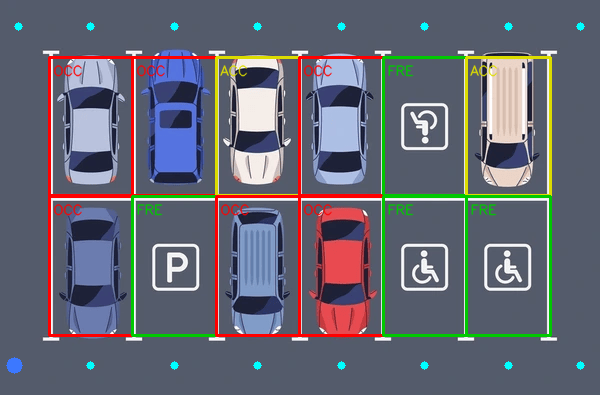
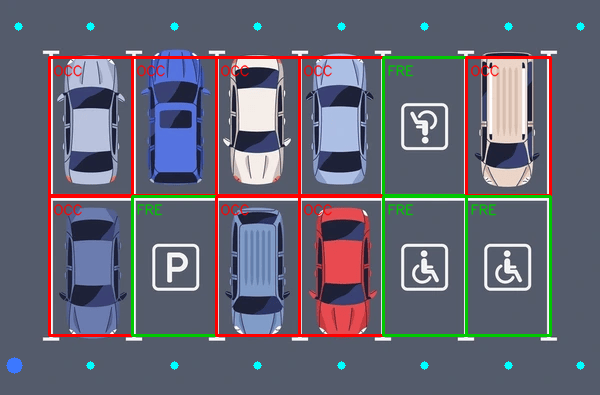
Updated Interative Map - Blue circle (the car) is now moveable - Orange Path (the closest free parking spot) is dynamic - Green Path (the chosen free parking spot) is dynamic

Changed region(s): [[0.75, 0.1215, 0.93, 0.4861], [0.36, 0.1215, 0.51, 0.5165]]

diff --git a/web/app.js b/web/app.js
@@ -7,6 +7,7 @@ const routeInfo = document.getElementById("routeInfo");
 let lotData = null;
 let bgImage = null;
 let selectedSpotNodeId = null;
+let vehicleAnchorId = null;
 let routePath = [];
 let defaultRoutePath = [];
 let defaultRouteTargetId = null;
@@ -22,9 +23,10 @@ const NODE_COLORS = {
   spot: "#f8fafc",
   perimeter: "#facc15",
   vehicle: "#3b82f6",
-  entrance: "#3b82f6",
   junction: "#a78bfa",
 };
+
+const ROAD_KINDS = new Set(["perimeter", "aisle", "junction"]);
 
 function dist(a, b) {
   return Math.hypot(a.x - b.x, a.y - b.y);
@@ -88,15 +90,6 @@ function astar(startId, goalId, nodes, edges) {
   return null;
 }
 
-function vehicleNodeId() {
-  if (!lotData) return null;
-  if (lotData.vehicle_id) return lotData.vehicle_id;
-  const vehicle = lotData.nodes.find(
-    (n) => n.kind === "vehicle" || n.kind === "entrance"
-  );
-  return vehicle?.id ?? null;
-}
-
 function pathLength(path, nodeMap) {
   let length = 0;
   for (let i = 1; i < path.length; i++) {
@@ -105,11 +98,37 @@ function pathLength(path, nodeMap) {
   return length;
 }
 
+function initialVehicleAnchorId() {
+  const vehicleId = lotData.vehicle_id || "vehicle";
+  for (const [from, to] of lotData.edges) {
+    if (from === vehicleId && ROAD_KINDS.has(nodeKind(to))) return to;
+    if (to === vehicleId && ROAD_KINDS.has(nodeKind(from))) return from;
+  }
+  const road = lotData.nodes.find((n) => ROAD_KINDS.has(n.kind));
+  return road?.id ?? null;
+}
+
+function nodeKind(id) {
+  return lotData.nodes.find((n) => n.id === id)?.kind;
+}
+
+function vehicleAnchorNode() {
+  return lotData.nodes.find((n) => n.id === vehicleAnchorId) ?? null;
+}
+
 function findSpotNodeAt(px, py, scale) {
-  if (!lotData) return null;
   const hitRadius = 16 / scale;
   for (const node of lotData.nodes) {
     if (node.kind !== "spot") continue;
+    if (Math.hypot(px - node.x, py - node.y) <= hitRadius) return node.id;
+  }
+  return null;
+}
+
+function findRoadNodeAt(px, py, scale) {
+  const hitRadius = 14 / scale;
+  for (const node of lotData.nodes) {
+    if (!ROAD_KINDS.has(node.kind)) continue;
     if (Math.hypot(px - node.x, py - node.y) <= hitRadius) return node.id;
   }
   return null;
@@ -132,8 +151,7 @@ function freeSpotNodeIds() {
 }
 
 function computeNearestFreeRoute() {
-  const startId = vehicleNodeId();
-  if (!startId || !lotData) {
+  if (!vehicleAnchorId || !lotData) {
     return { path: [], targetId: null, length: 0 };
   }
 
@@ -141,7 +159,7 @@ function computeNearestFreeRoute() {
   let best = null;
 
   for (const targetId of freeSpotNodeIds()) {
-    const path = astar(startId, targetId, lotData.nodes, lotData.edges);
+    const path = astar(vehicleAnchorId, targetId, lotData.nodes, lotData.edges);
     if (!path) continue;
     const length = pathLength(path, nodeMap);
     if (!best || length < best.length) {
@@ -150,6 +168,50 @@ function computeNearestFreeRoute() {
   }
 
   return best ?? { path: [], targetId: null, length: 0 };
+}
+
+function refreshDefaultRoute() {
+  const nearest = computeNearestFreeRoute();
+  defaultRoutePath = nearest.path;
+  defaultRouteTargetId = nearest.targetId;
+}
+
+function refreshGreenRoute() {
+  if (!selectedSpotNodeId || !vehicleAnchorId) {
+    routePath = [];
+    return null;
+  }
+  const spot = spotForNode(selectedSpotNodeId);
+  if (!spot || spot.status === "occupied") {
+    routePath = [];
+    return null;
+  }
+  const path = astar(selectedSpotNodeId, vehicleAnchorId, lotData.nodes, lotData.edges);
+  routePath = path ?? [];
+  return spot;
+}
+
+function updateRouteInfo(extra = "") {
+  const defaultSpot = defaultRouteTargetId
+    ? spotForNode(defaultRouteTargetId)
+    : null;
+  const defaultHint = defaultSpot
+    ? `Orange: vehicle → nearest free at <strong>${spotLabel(defaultSpot)}</strong>. `
+    : "No free spots available. ";
+
+  if (!extra && selectedSpotNodeId) {
+    const spot = spotForNode(selectedSpotNodeId);
+    if (spot?.status === "occupied") {
+      extra = `Spot <strong>${spotLabel(spot)}</strong> is <strong>occupied</strong>.`;
+    } else if (spot && routePath.length > 1) {
+      const nodeMap = new Map(lotData.nodes.map((n) => [n.id, n]));
+      const length = pathLength(routePath, nodeMap);
+      extra = `Green: <strong>${spotLabel(spot)}</strong> → vehicle (${routePath.length} nodes, ~${Math.round(length)} px).`;
+    }
+  }
+
+  routeInfo.innerHTML =
+    `${defaultHint}${extra || "Click a <strong>road node</strong> to move the vehicle. Click a <strong>spot node</strong> for a green path to the vehicle."}`;
 }
 
 function drawRouteLine(path, color, shadowColor) {
@@ -212,6 +274,7 @@ function draw() {
     const b = nodeMap.get(to);
     if (!a || !b) continue;
     if (isSpot(from) && isSpot(to)) continue;
+    if (from === "vehicle" || to === "vehicle") continue;
     ctx.beginPath();
     ctx.moveTo(a.x, a.y);
     ctx.lineTo(b.x, b.y);
@@ -235,28 +298,27 @@ function draw() {
   drawRouteLine(routePath, "#22c55e", "#16a34a");
 
   for (const node of lotData.nodes) {
-    if (node.kind === "perimeter") {
-      ctx.beginPath();
-      ctx.arc(node.x, node.y, 3.5, 0, Math.PI * 2);
-      ctx.fillStyle = "rgba(250, 204, 21, 0.85)";
-      ctx.fill();
-      continue;
-    }
+    if (node.kind === "vehicle" || node.kind === "entrance") continue;
 
-    if (node.kind === "vehicle" || node.kind === "entrance") {
-      const highlight = routeHighlight(node.id);
+    if (ROAD_KINDS.has(node.kind)) {
+      const isAnchor = node.id === vehicleAnchorId;
+      const highlight = isAnchor ? null : routeHighlight(node.id);
+      const roadR = 7;
       ctx.beginPath();
-      ctx.arc(node.x, node.y, 10, 0, Math.PI * 2);
-      ctx.fillStyle =
-        highlight === "green"
-          ? "#22c55e"
-          : highlight === "orange"
-            ? "#f97316"
-            : NODE_COLORS.vehicle;
+      ctx.arc(node.x, node.y, roadR, 0, Math.PI * 2);
+      if (highlight === "green") ctx.fillStyle = "#22c55e";
+      else if (highlight === "orange") ctx.fillStyle = "#f97316";
+      else ctx.fillStyle = "rgba(250, 204, 21, 0.9)";
       ctx.fill();
-      ctx.strokeStyle = "#1e3a8a";
-      ctx.lineWidth = 2;
-      ctx.stroke();
+      if (isAnchor) {
+        ctx.strokeStyle = "#3b82f6";
+        ctx.lineWidth = 2;
+        ctx.stroke();
+      } else {
+        ctx.strokeStyle = "rgba(15, 23, 42, 0.85)";
+        ctx.lineWidth = 1.5;
+        ctx.stroke();
+      }
       continue;
     }
 
@@ -277,6 +339,17 @@ function draw() {
     ctx.lineWidth = isSelected ? 3 : 1.5;
     ctx.stroke();
   }
+
+  const anchor = vehicleAnchorNode();
+  if (anchor) {
+    ctx.beginPath();
+    ctx.arc(anchor.x, anchor.y, 11, 0, Math.PI * 2);
+    ctx.fillStyle = NODE_COLORS.vehicle;
+    ctx.fill();
+    ctx.strokeStyle = "#1e3a8a";
+    ctx.lineWidth = 2.5;
+    ctx.stroke();
+  }
 }
 
 async function loadLot(lotId) {
@@ -285,10 +358,9 @@ async function loadLot(lotId) {
   );
   selectedSpotNodeId = null;
   routePath = [];
+  vehicleAnchorId = initialVehicleAnchorId();
 
-  const nearest = computeNearestFreeRoute();
-  defaultRoutePath = nearest.path;
-  defaultRouteTargetId = nearest.targetId;
+  refreshDefaultRoute();
 
   bgImage = await new Promise((resolve, reject) => {
     const img = new Image();
@@ -299,16 +371,7 @@ async function loadLot(lotId) {
 
   const { free, occupied, total_spots } = lotData.summary;
   summaryEl.textContent = `${total_spots} spots · ${free} free · ${occupied} occupied`;
-  const defaultSpot = defaultRouteTargetId
-    ? spotForNode(defaultRouteTargetId)
-    : null;
-  const defaultHint = defaultSpot
-    ? `Orange path: nearest free spot at <strong>${spotLabel(defaultSpot)}</strong>. `
-    : "No free spots available. ";
-
-  routeInfo.innerHTML =
-    `${defaultHint}Click a <strong>spot node</strong> for a green route from the <strong>blue vehicle</strong>. Occupied spots show a message only.`;
-
+  updateRouteInfo();
   draw();
 }
 
@@ -334,42 +397,78 @@ canvas.addEventListener("click", (e) => {
   const y = (e.clientY - rect.top) * scaleY;
   const scale = Math.max(scaleX, scaleY);
 
-  const nodeId = findSpotNodeAt(x, y, scale);
-  if (!nodeId) return;
+  const spotId = findSpotNodeAt(x, y, scale);
+  const roadId = findRoadNodeAt(x, y, scale);
 
-  selectedSpotNodeId = nodeId;
-  const spot = spotForNode(nodeId);
+  if (spotId) {
+    handleSpotClick(spotId);
+    return;
+  }
+
+  if (roadId) {
+    vehicleAnchorId = roadId;
+    refreshDefaultRoute();
+    if (selectedSpotNodeId) {
+      const spot = refreshGreenRoute();
+      if (spot) updateRouteInfo();
+      else if (spotForNode(selectedSpotNodeId)?.status === "occupied") {
+        updateRouteInfo(
+          `Spot <strong>${spotLabel(spotForNode(selectedSpotNodeId))}</strong> is <strong>occupied</strong>.`
+        );
+      }
+    } else {
+      updateRouteInfo("Vehicle moved along the road.");
+    }
+    draw();
+    return;
+  }
+});
+
+function handleSpotClick(spotId) {
+  if (!lotData) return;
+
+  if (selectedSpotNodeId === spotId && routePath.length > 0) {
+    selectedSpotNodeId = null;
+    routePath = [];
+    updateRouteInfo();
+    draw();
+    return;
+  }
+
+  selectedSpotNodeId = spotId;
+  const spot = spotForNode(spotId);
   if (!spot) return;
 
   if (spot.status === "occupied") {
     routePath = [];
-    routeInfo.innerHTML = `Spot <strong>${spotLabel(spot)}</strong> is <strong>occupied</strong>. Choose a free or accessible stall.`;
+    updateRouteInfo(
+      `Spot <strong>${spotLabel(spot)}</strong> is <strong>occupied</strong>. Choose a free or accessible stall.`
+    );
     draw();
     return;
   }
 
-  const startId = vehicleNodeId();
-  if (!startId) {
+  if (!vehicleAnchorId) {
     routePath = [];
-    routeInfo.textContent = "No vehicle node defined for this lot.";
+    routeInfo.textContent = "No vehicle position on the road network.";
     draw();
     return;
   }
 
-  const path = astar(startId, nodeId, lotData.nodes, lotData.edges);
+  const path = astar(spotId, vehicleAnchorId, lotData.nodes, lotData.edges);
   if (!path) {
     routePath = [];
-    routeInfo.innerHTML = `No drivable route from the vehicle to <strong>${spotLabel(spot)}</strong>.`;
+    updateRouteInfo(
+      `No drivable route from <strong>${spotLabel(spot)}</strong> to the vehicle.`
+    );
     draw();
     return;
   }
 
   routePath = path;
-  const nodeMap = new Map(lotData.nodes.map((n) => [n.id, n]));
-  const length = pathLength(path, nodeMap);
-  routeInfo.innerHTML = `Route from <strong>vehicle</strong> → <strong>${spotLabel(spot)}</strong> (${spot.status})<br>${path.length} nodes · ~${Math.round(length)} px`;
+  updateRouteInfo();
   draw();
-});
+}
 
 canvas.style.cursor = "crosshair";
 

diff --git a/web/index.html b/web/index.html
@@ -31,7 +31,7 @@
           <li><span class="swatch" style="background: #22c55e; height: 4px"></span> Selected spot route</li>
         </ul>
         <p class="hint">
-          Click a white spot node only. Routes start at the blue vehicle and follow the road into free or accessible stalls. Occupied stalls show a message instead of a path.
+          Click yellow road nodes to move the blue vehicle. Orange shows vehicle → nearest free spot. Click a white spot for a green path from that stall to the vehicle.
         </p>
         <h2>Route</h2>
         <div id="routeInfo">Loading…</div>

diff --git a/parking_classifier.py b/parking_classifier.py
@@ -100,14 +100,14 @@ def _classify_roi(roi: np.ndarray, stylized: bool) -> tuple[SpotClass, float]:
     gray_std = float(gray.std())
 
     if stylized:
-        if white_ratio > 0.18 and car_ratio < 0.12:
-            return "accessible", min(0.95, 0.55 + white_ratio * 2)
-        if non_bg_ratio < 0.22:
-            return "free", 0.88
         if car_ratio > 0.28 or non_bg_ratio > 0.48:
             return "occupied", min(0.98, 0.6 + car_ratio)
         if car_ratio > 0.08 or edge_ratio > 0.11:
             return "occupied", 0.82
+        if white_ratio > 0.18 and car_ratio < 0.06:
+            return "accessible", min(0.95, 0.55 + white_ratio * 2)
+        if non_bg_ratio < 0.22:
+            return "free", 0.88
         return "free", 0.75
 
     # Aerial / photo lots: vehicles raise texture (std, edges) in the stall center